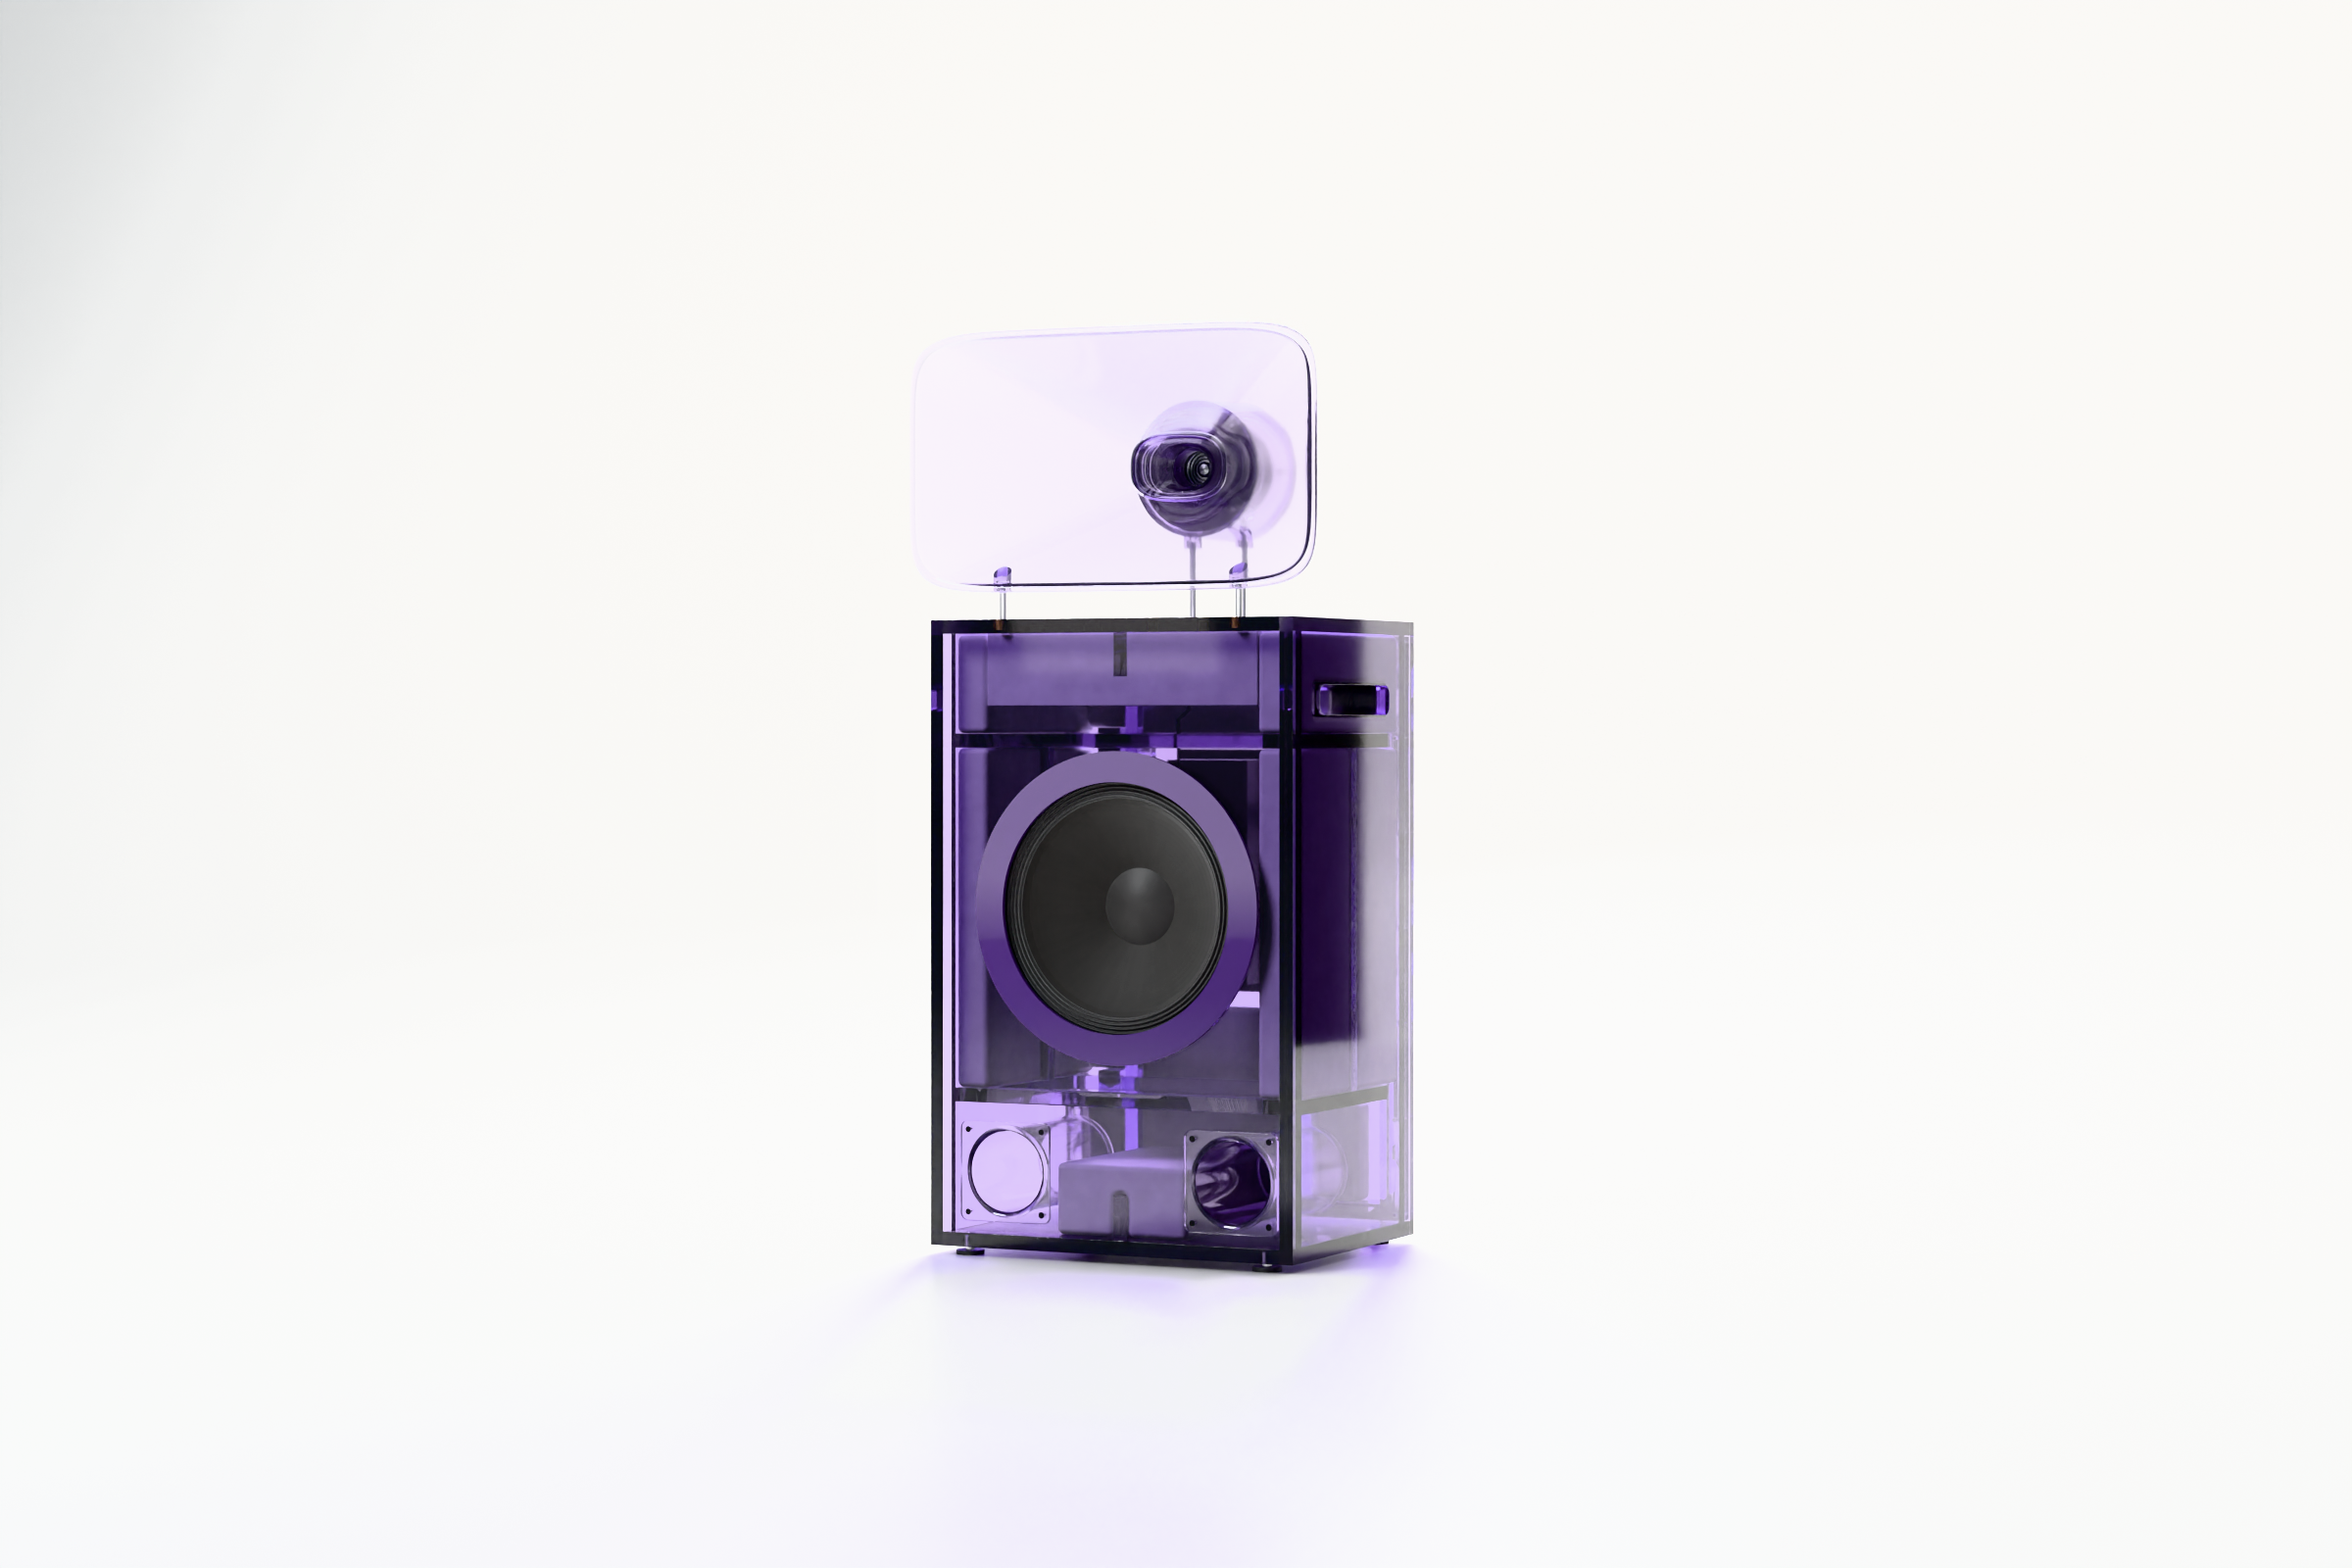
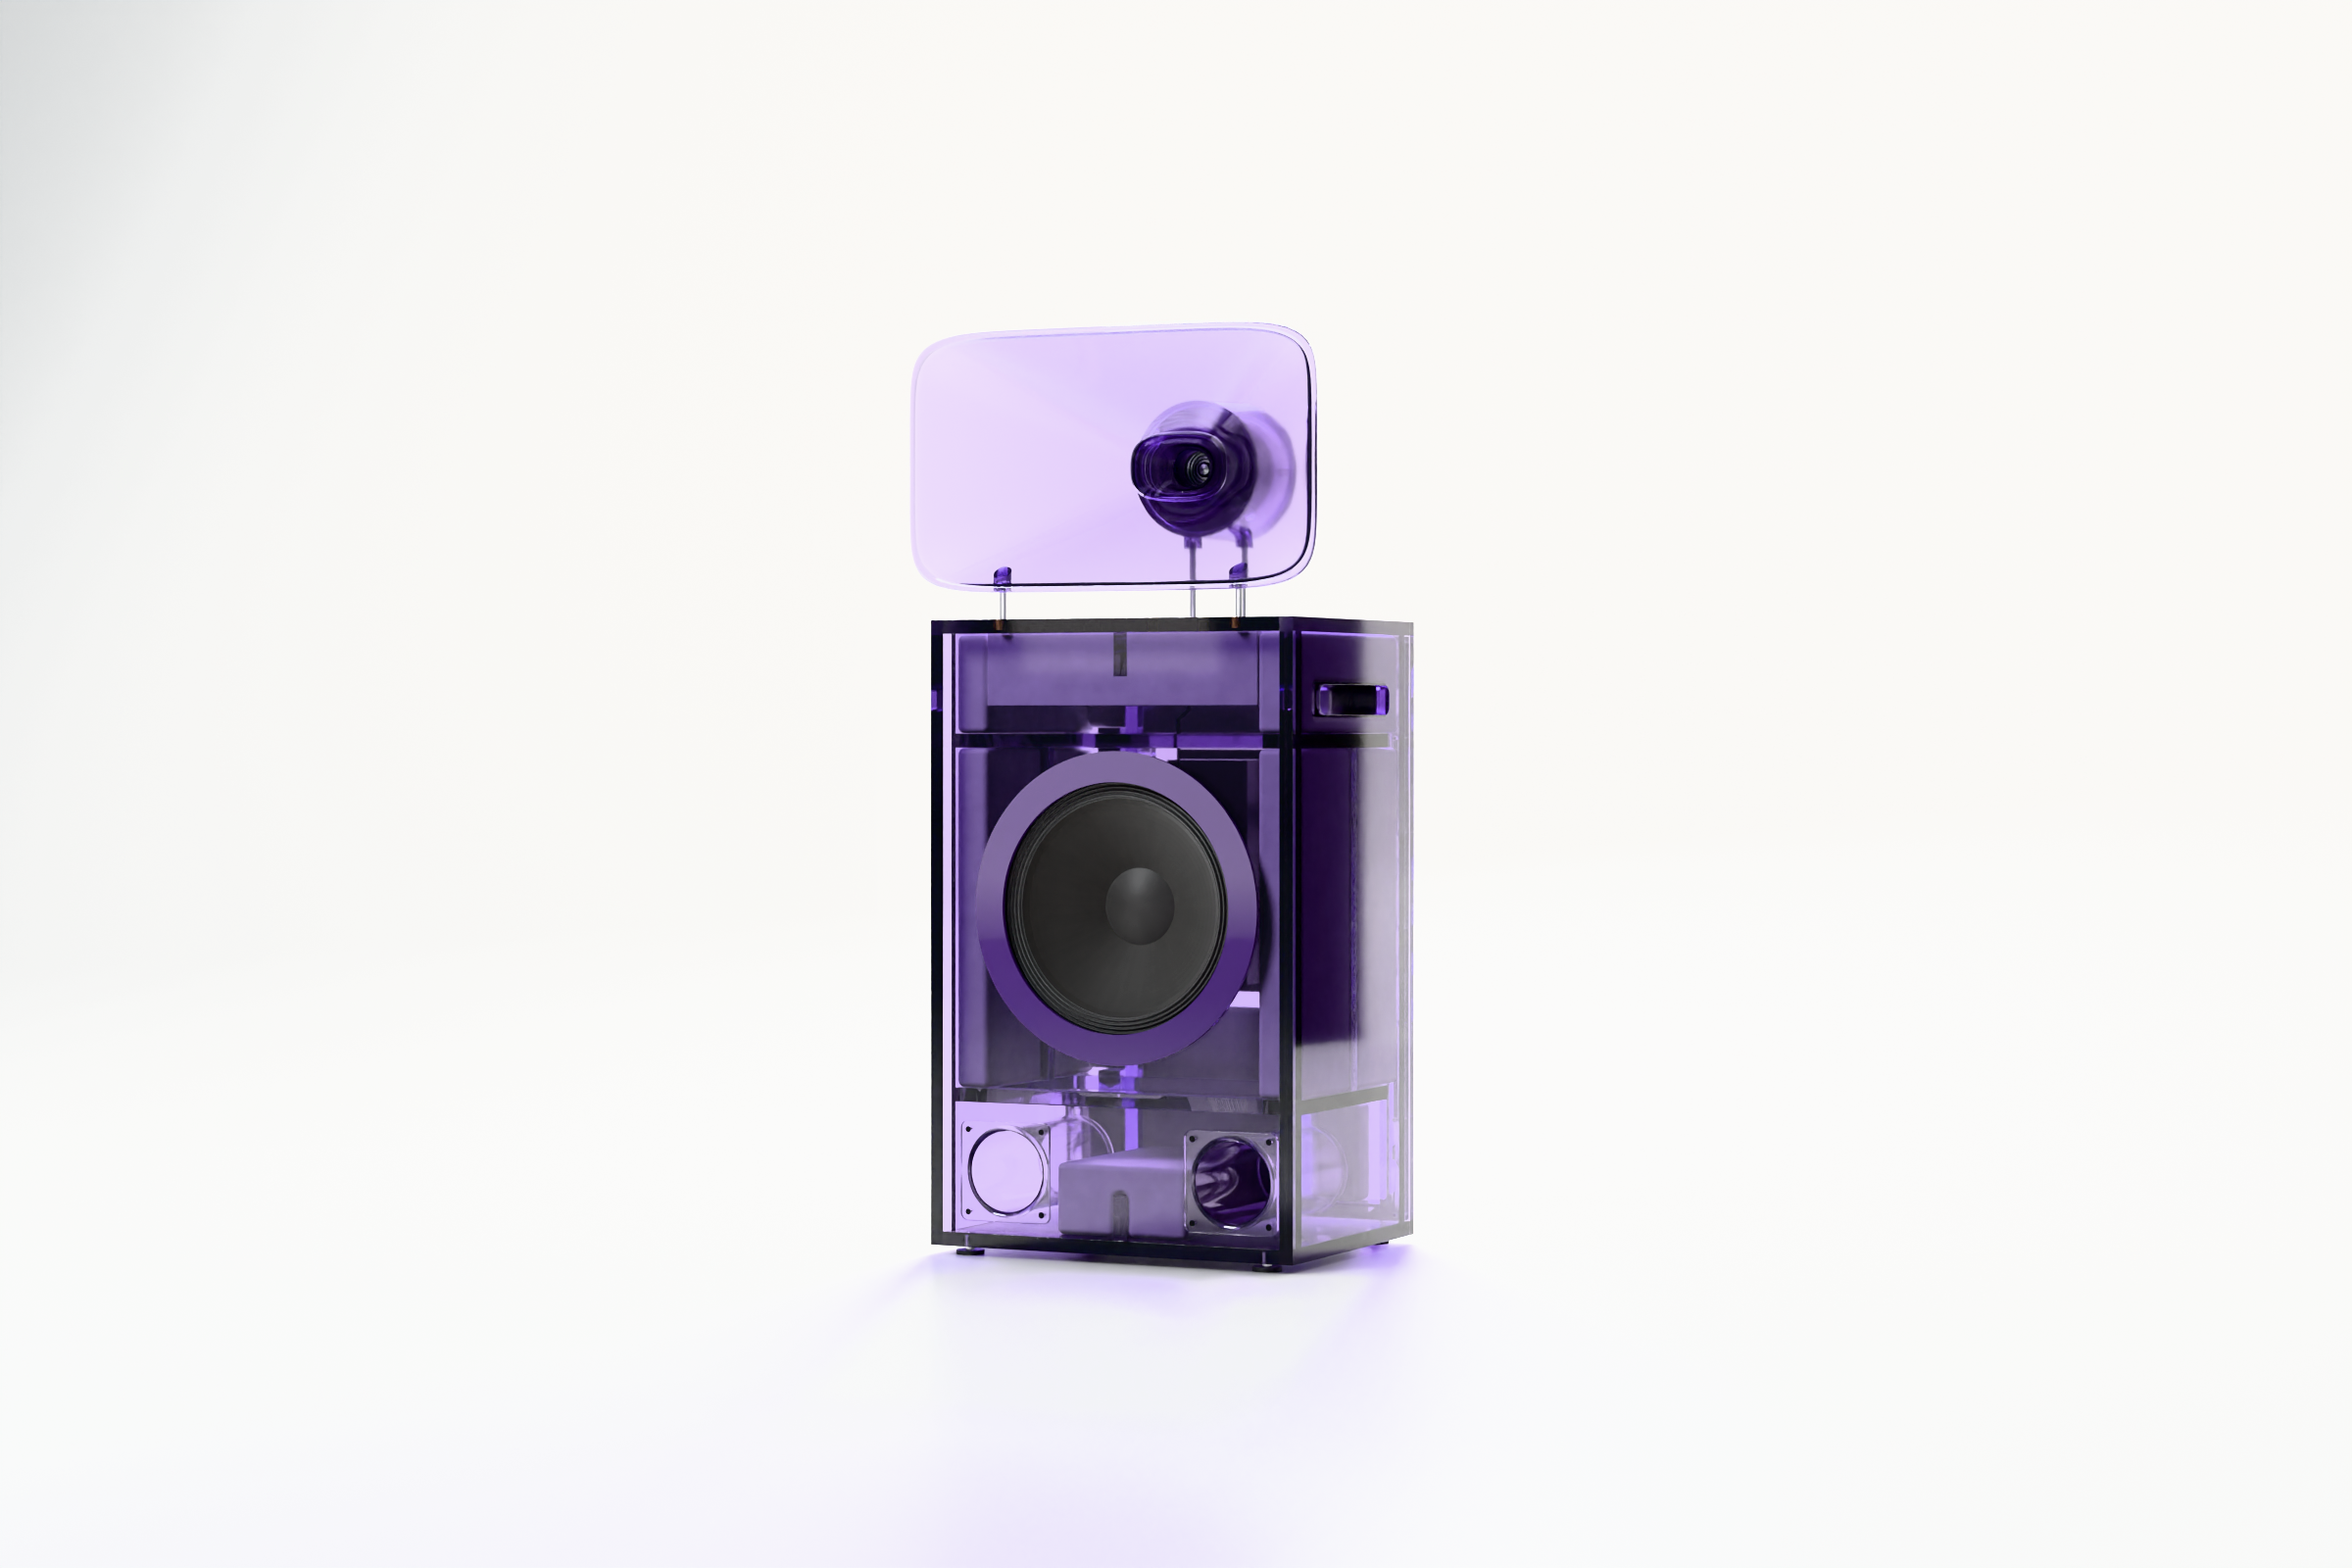
barkhorn round 36: the proof renders again with the horn in its own dye lot, as deep as the cabinet
Claude-Session: https://claude.ai/code/session_01CsZ9sPVytkpnrfV4BgTgfB

Changed region(s): [[0.375, 0.1875, 0.5625, 0.375]]

diff --git a/renders/2026-10-22/barkhorn/horn36/NOTES.md b/renders/2026-10-22/barkhorn/horn36/NOTES.md
@@ -1,8 +1,12 @@
 # horn36: the formed horn, for the owner to sign the look
 
-Round 36's proof (spinoffs/barkhorn/README.md, Round 36): the Cloud's horn thermoformed from the cabinet's own 10 mm
-tinted sheet, its wall 8.5 at the throat end to 4.9 in the mouth's corners, rendered from the model's real wall in the
-cabinet's tint per millimetre.
+Round 36's proof (spinoffs/barkhorn/README.md, Round 36): the Cloud's horn thermoformed from 10 mm tinted cast sheet,
+its wall 8.5 at the throat end to 4.9 in the mouth's corners, rendered from the model's real wall.
+
+The owner's call of 2026-10-22, "Horn tint: as deep as the cabinet (a heavier dye lot for the horn's sheet)": every horn
+part in a dye lot of its own, about three times the cabinet's dye (the model's `horn-lot` material, product.HORN_LOT).
+These frames are rendered with it. The first versions, in the cabinet's own lot (a pale horn), are in this folder's
+history (commit 7e5828d).
 
 - hero-haze-horn36.png: studio31's hero-light-haze rig, camera and light unchanged, framed 3:2 at 2400 x 1600 (the
   resin horn's is renders/2026-10-18/barkhorn/studio31/hero-light-haze.png, 2560 x 1440, the same camera).
